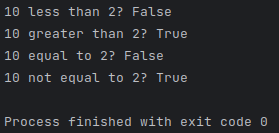
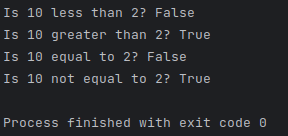
translated flow control and comparisson operators

diff --git a/Python Course.md b/Python Course.md
@@ -698,55 +698,55 @@ Don't leave it for later. Do now what you can with what you have.
 
 # Chapter 2: Flow Control
 
-Quando falamos de controle de fluxo, nos referimos à habilidade de um programa de decidir o que fazer ou quantas vezes fazer, dependendo de uma condição. Dê uma olhadinha no fluxograma a seguir:
+When we talk about flow control, we are refering to the ability of a program to decide what to do or how many times to do it, depending on a condition. Take a look at the flow chart below:
 
-![[21 - flowchart_pt.drawio.png]]
+![[21 -  flowchart_en.drawio.png]]
 
-Neste exemplo, antes de decidirmos o que fazer, avaliamos certas condições. Está quente? Se não estiver, saímos. Caso esteja, verificamos então se está suportável, se estiver, saímos, se não estiver, esperamos um pouco e verificamos novamente.
+In this example, before deciding what to do, we evaluate certain conditions. Is it hot? if it isn't, we go outside. In case it is, we check if it's bearable, if it is, we go outside, if not, we wait a little and check again.
 
-Neste capítulo você aprenderá a utilizar o controle de fluxo para aumentar as funcionalidades dos seus programas.
+In this chapter you'll learn how to utilize flow control to improve the functionalities of your programs.
 
-## Operadores de comparação | Comparison Operators
+## Comparison Operators
 
-Antes de começarmos a utilizar o controle de fluxo nos nossos códigos, precisamos falar sobre os operadores de comparação. Eles são utilizados para formar expressões, que nada mais são do que uma combinação de operadores e valores que resulta em um valor. Nós já utilizamos expressões anteriormente, por exemplo:
+Before we begin to utilize flow control in our code, we need to talk about comparison operators. They're used to form expressions, which are simply a combination of operators and operands, resulting in a value. We have used expressions previously, for example:
 
 ```python
 number = 10 + 2
 ```
 
-10 + 2 é uma expressão que forma o valor 12. Nada de novo no horizonte. Com os operadores de comparação, nós podemos criar expressões um pouco mais complexas. Como, por exemplo:
+10 + 2 is an expression that forms the value 12. Nothing new in the horizon. With comparison operators we can create expressions a little more complex. As we can see below:
 
 ```python
 is_less_than = 2 < 10
 # is_less_than = True
 ```
 
-Nesta expressão, python vai checar se 2 é menor que 10 e resultado vai ser um ```boolean```, ou seja, verdadeiro ou falso.
+In this expression, python will check if two is less than 10 and the result will be a ```boolean```, in other words, true ou false.
 
-Os operadores de comparação são:
+The comparison operators are:
 
-| Expressão | O que faz        |
-|-----------|------------------|
-| ==        | igual a          |
-| !=        | Não é igual a    |
-| >         | Maior que        |
-| <         | Menor que        |
-| >=        | Maior ou igual a |
-| <=        | Menor ou igual a |
+| Operator  | What it does             |
+|-----------|--------------------------|
+| ==        | equal to                 |
+| !=        | not equal to             |
+| >         | greater than             |
+| <         | less than                |
+| >=        | greater than or equal to |
+| <=        | less than or equal to    |
 
 ```python
 number1 = 10  
 number2 = 2  
-
-print(f"{number1} é menor que {number2}? {number1 < number2}")  
-print(f"{number1} é maior que {number2}? {number1 > number2}")  
-print(f"{number1} é igual a {number2}? {number1 == number2}")  
-print(f"{number1} não é igual a {number2}? {number1 != number2}")
+  
+print(f"Is {number1} less than {number2}? {number1 < number2}")  
+print(f"Is {number1} greater than {number2}? {number1 > number2}")  
+print(f"Is {number1} equal to {number2}? {number1 == number2}")  
+print(f"Is {number1} not equal to {number2}? {number1 != number2}")
 ```
 
-![[22 - comparisson_operators_pt.png]]
+![[22 - comparisson_operators_en.png]]
 
-> **_Nota:_** Não confunda o operador de atribuição (=) com o operador de igualdade  (=\=).
+> **_Note:_** Do not confuse the assign operator (=) with the equality operator (=\=).
 
 ---
 

diff --git a/Curso de Python.md b/Curso de Python.md
@@ -734,14 +734,14 @@ Nesta expressão, python vai checar se 2 é menor que 10 e resultado vai ser um 
 
 Os operadores de comparação são:
 
-| Expressão | O que faz        |
+| Operador  | O que faz        |
 |-----------|------------------|
 | ==        | igual a          |
-| !=        | Não é igual a    |
-| >         | Maior que        |
-| <         | Menor que        |
-| >=        | Maior ou igual a |
-| <=        | Menor ou igual a |
+| !=        | não é igual a    |
+| >         | maior que        |
+| <         | menor que        |
+| >=        | maior ou igual a |
+| <=        | menor ou igual a |
 
 ```python
 number1 = 10  
